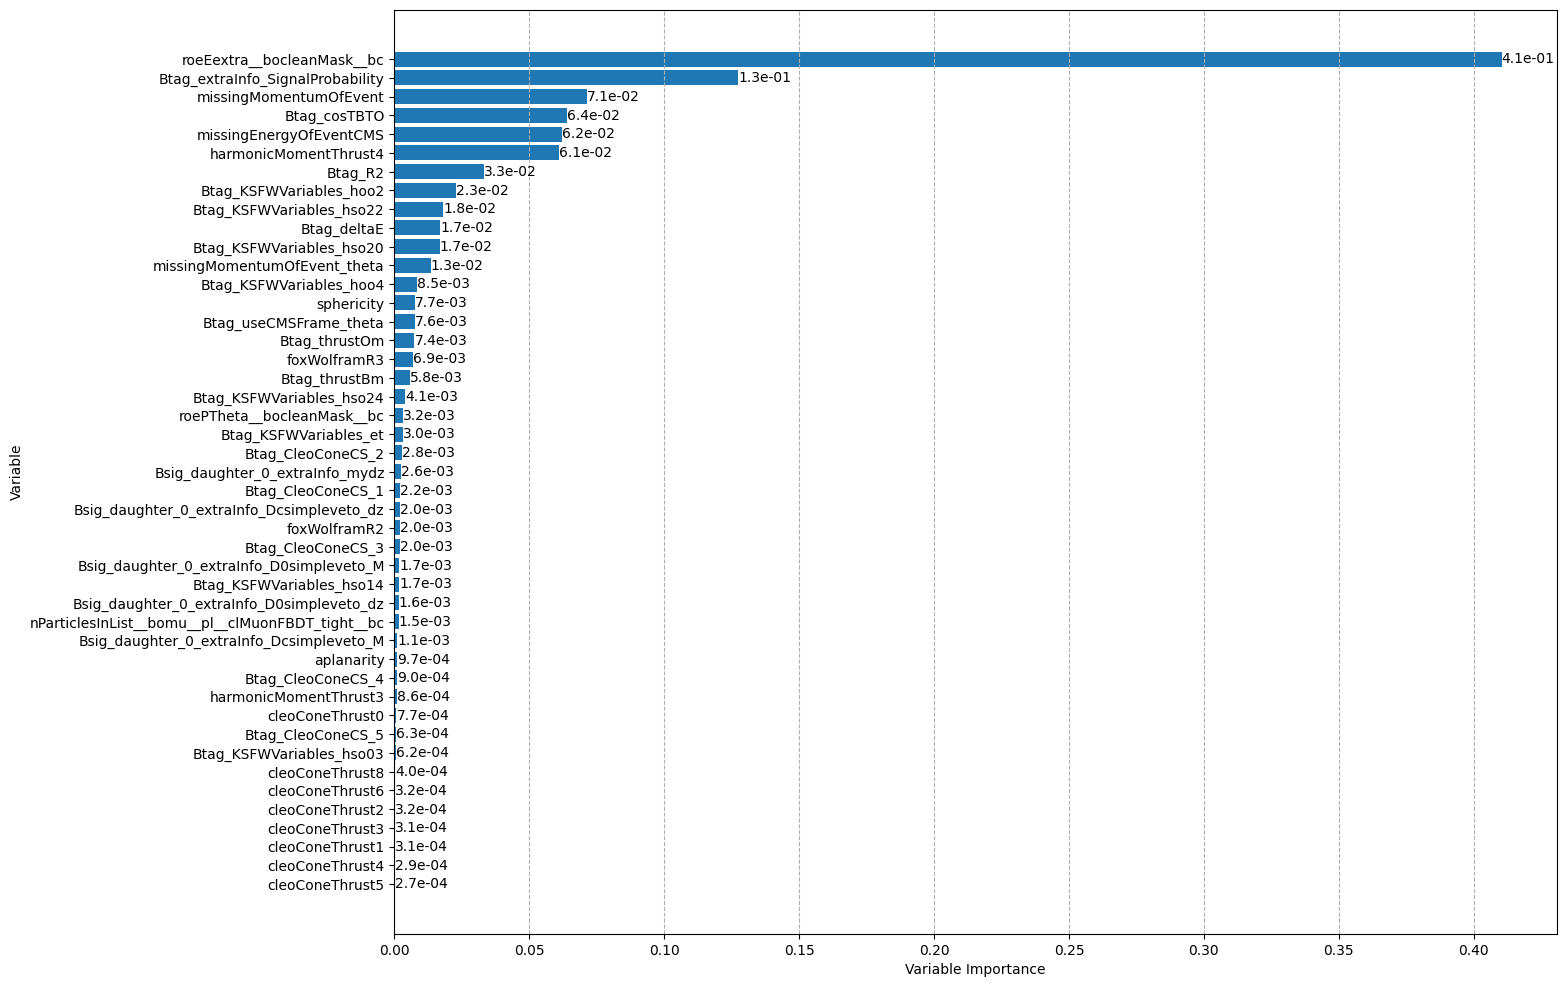
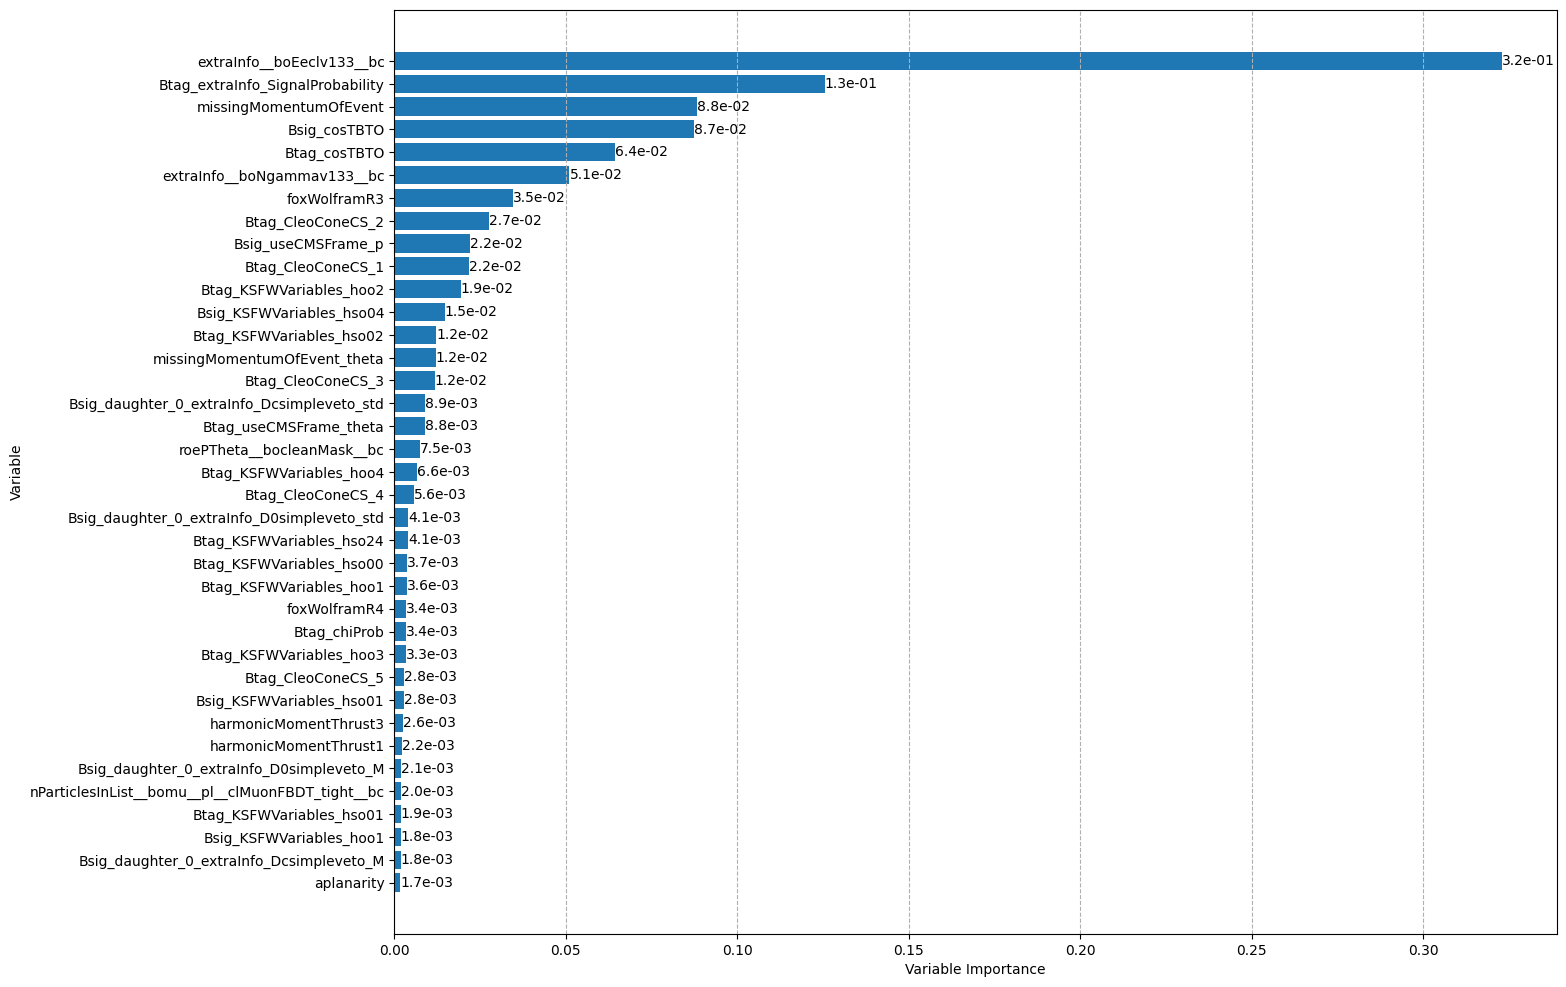
Jpsi THStack fix

diff --git a/THstack_plot/Jpsi/THStack_dm_Jpsi.c b/THstack_plot/Jpsi/THStack_dm_Jpsi.c
@@ -101,7 +101,7 @@ void LetsFill(const char* dirname, TH1F* hist, double weight = 1) {
         TFile* input_file = new TFile((dirname + std::string("/") + names.at(i)).c_str(), "read");
         printf("%s (%d/%zu)\n", ("Read " + names.at(i) + "... ").c_str(), i, names.size());
 
-        TTree* tree_upsilon = (TTree*)input_file->Get("Jpsi");
+        TTree* tree_upsilon = (TTree*)input_file->Get("Upsilon_Jpsi");
 
         tree_upsilon->SetBranchAddress("daughter__bo1__cm__spdaughter__bo1__cm__spdM__bc__bc", &var);
 
@@ -127,11 +127,9 @@ void LetsFill(const char* dirname, TH1F* hist, const char* included_string, doub
         TFile* input_file = new TFile((dirname + std::string("/") + names.at(i)).c_str(), "read");
         printf("%s (%d/%zu)\n", ("Read " + names.at(i) + "... ").c_str(), i, names.size());
 
-        TTree* tree_upsilon = (TTree*)input_file->Get("Upsilon");
-        TTree* tree_Bsig = (TTree*)input_file->Get("Bsig");
-        TTree* tree_Btag = (TTree*)input_file->Get("Btag");
+        TTree* tree_upsilon = (TTree*)input_file->Get("Upsilon_Jpsi");
 
-        tree_upsilon->SetBranchAddress("roeEextra__bocleanMask__bc", &var);
+        tree_upsilon->SetBranchAddress("daughter__bo1__cm__spdaughter__bo1__cm__spdM__bc__bc", &var);
 
         printf("%lld entries...\n", tree_upsilon->GetEntries());
         for (unsigned int j = 0; j < tree_upsilon->GetEntries(); j++) { // Fill
@@ -148,21 +146,21 @@ void LetsFill(const char* dirname, TH1F* hist, const char* included_string, doub
 
 void THStack_dm_Jpsi() {
 
-    const char* SIGNAL_dirname = "/home/jwpark/storage/BKG_gbasf2/Nitori_Jpsi/Jpsi/SIGNAL_after_FEISKIM_Nitori";
-    const char* CHG_dirname = "/home/jwpark/storage/BKG_gbasf2/Nitori_Jpsi/Jpsi/CHG_after_FEISKIM_Nitori";
-    const char* MIX_dirname = "/home/jwpark/storage/BKG_gbasf2/Nitori_Jpsi/Jpsi/MIX_after_FEISKIM_Nitori";
-    const char* UUBAR_dirname = "/home/jwpark/storage/BKG_gbasf2/Nitori_Jpsi/Jpsi/UUBAR_after_FEISKIM_Nitori";
-    const char* DDBAR_dirname = "/home/jwpark/storage/BKG_gbasf2/Nitori_Jpsi/Jpsi/DDBAR_after_FEISKIM_Nitori";
-    const char* SSBAR_dirname = "/home/jwpark/storage/BKG_gbasf2/Nitori_Jpsi/Jpsi/SSBAR_after_FEISKIM_Nitori";
-    const char* CHARM_dirname = "/home/jwpark/storage/BKG_gbasf2/Nitori_Jpsi/Jpsi/CHARM_after_FEISKIM_Nitori";
+    const char* SIGNAL_dirname = "/home/jwpark/storage/BKG_gbasf2/Nazrin_LS_MC_Jpsi/Jpsi/SIGNAL";
+    const char* CHG_dirname = "/home/jwpark/storage/BKG_gbasf2/Nazrin_LS_MC_Jpsi/Jpsi/CHG";
+    const char* MIX_dirname = "/home/jwpark/storage/BKG_gbasf2/Nazrin_LS_MC_Jpsi/Jpsi/MIX";
+    const char* UUBAR_dirname = "/home/jwpark/storage/BKG_gbasf2/Nazrin_LS_MC_Jpsi/Jpsi/UUBAR";
+    const char* DDBAR_dirname = "/home/jwpark/storage/BKG_gbasf2/Nazrin_LS_MC_Jpsi/Jpsi/DDBAR";
+    const char* SSBAR_dirname = "/home/jwpark/storage/BKG_gbasf2/Nazrin_LS_MC_Jpsi/Jpsi/SSBAR";
+    const char* CHARM_dirname = "/home/jwpark/storage/BKG_gbasf2/Nazrin_LS_MC_Jpsi/Jpsi/CHARM";
 
-    LetsFill(SIGNAL_dirname, SIGNAL_hist, (0.3/20.0));
-    LetsFill(CHG_dirname, CHG_hist);
-    LetsFill(MIX_dirname, MIX_hist);
-    LetsFill(UUBAR_dirname, UUBAR_hist);
-    LetsFill(DDBAR_dirname, DDBAR_hist);
-    LetsFill(SSBAR_dirname, SSBAR_hist);
-    LetsFill(CHARM_dirname, CHARM_hist);
+    LetsFill(SIGNAL_dirname, SIGNAL_hist, (0.3616 / 1.8));
+    LetsFill(CHG_dirname, CHG_hist, (0.3616 / 0.8));
+    LetsFill(MIX_dirname, MIX_hist, (0.3616 / 0.8));
+    LetsFill(UUBAR_dirname, UUBAR_hist, (0.3616 / 1.0));
+    LetsFill(DDBAR_dirname, DDBAR_hist, (0.3616 / 1.0));
+    LetsFill(SSBAR_dirname, SSBAR_hist, (0.3616 / 1.0));
+    LetsFill(CHARM_dirname, CHARM_hist, (0.3616 / 1.0));
 
 
     double CHG_int = CHG_hist->Integral();

diff --git a/THstack_plot/Jpsi/THStack_delE_Jpsi.c b/THstack_plot/Jpsi/THStack_delE_Jpsi.c
@@ -101,7 +101,7 @@ void LetsFill(const char* dirname, TH1F* hist, double weight = 1) {
         TFile* input_file = new TFile((dirname + std::string("/") + names.at(i)).c_str(), "read");
         printf("%s (%d/%zu)\n", ("Read " + names.at(i) + "... ").c_str(), i, names.size());
 
-        TTree* tree_upsilon = (TTree*)input_file->Get("Jpsi");
+        TTree* tree_upsilon = (TTree*)input_file->Get("Upsilon_Jpsi");
 
         tree_upsilon->SetBranchAddress("daughter__bo1__cm__spdeltaE__bc", &var);
 
@@ -127,11 +127,9 @@ void LetsFill(const char* dirname, TH1F* hist, const char* included_string, doub
         TFile* input_file = new TFile((dirname + std::string("/") + names.at(i)).c_str(), "read");
         printf("%s (%d/%zu)\n", ("Read " + names.at(i) + "... ").c_str(), i, names.size());
 
-        TTree* tree_upsilon = (TTree*)input_file->Get("Upsilon");
-        TTree* tree_Bsig = (TTree*)input_file->Get("Bsig");
-        TTree* tree_Btag = (TTree*)input_file->Get("Btag");
+        TTree* tree_upsilon = (TTree*)input_file->Get("Upsilon_Jpsi");
 
-        tree_upsilon->SetBranchAddress("roeEextra__bocleanMask__bc", &var);
+        tree_upsilon->SetBranchAddress("daughter__bo1__cm__spdeltaE__bc", &var);
 
         printf("%lld entries...\n", tree_upsilon->GetEntries());
         for (unsigned int j = 0; j < tree_upsilon->GetEntries(); j++) { // Fill
@@ -148,21 +146,21 @@ void LetsFill(const char* dirname, TH1F* hist, const char* included_string, doub
 
 void THStack_delE_Jpsi() {
 
-    const char* SIGNAL_dirname = "/home/jwpark/storage/BKG_gbasf2/Nitori_Jpsi/Jpsi/SIGNAL_after_FEISKIM_Nitori";
-    const char* CHG_dirname = "/home/jwpark/storage/BKG_gbasf2/Nitori_Jpsi/Jpsi/CHG_after_FEISKIM_Nitori";
-    const char* MIX_dirname = "/home/jwpark/storage/BKG_gbasf2/Nitori_Jpsi/Jpsi/MIX_after_FEISKIM_Nitori";
-    const char* UUBAR_dirname = "/home/jwpark/storage/BKG_gbasf2/Nitori_Jpsi/Jpsi/UUBAR_after_FEISKIM_Nitori";
-    const char* DDBAR_dirname = "/home/jwpark/storage/BKG_gbasf2/Nitori_Jpsi/Jpsi/DDBAR_after_FEISKIM_Nitori";
-    const char* SSBAR_dirname = "/home/jwpark/storage/BKG_gbasf2/Nitori_Jpsi/Jpsi/SSBAR_after_FEISKIM_Nitori";
-    const char* CHARM_dirname = "/home/jwpark/storage/BKG_gbasf2/Nitori_Jpsi/Jpsi/CHARM_after_FEISKIM_Nitori";
+    const char* SIGNAL_dirname = "/home/jwpark/storage/BKG_gbasf2/Nazrin_LS_MC_Jpsi/Jpsi/SIGNAL";
+    const char* CHG_dirname = "/home/jwpark/storage/BKG_gbasf2/Nazrin_LS_MC_Jpsi/Jpsi/CHG";
+    const char* MIX_dirname = "/home/jwpark/storage/BKG_gbasf2/Nazrin_LS_MC_Jpsi/Jpsi/MIX";
+    const char* UUBAR_dirname = "/home/jwpark/storage/BKG_gbasf2/Nazrin_LS_MC_Jpsi/Jpsi/UUBAR";
+    const char* DDBAR_dirname = "/home/jwpark/storage/BKG_gbasf2/Nazrin_LS_MC_Jpsi/Jpsi/DDBAR";
+    const char* SSBAR_dirname = "/home/jwpark/storage/BKG_gbasf2/Nazrin_LS_MC_Jpsi/Jpsi/SSBAR";
+    const char* CHARM_dirname = "/home/jwpark/storage/BKG_gbasf2/Nazrin_LS_MC_Jpsi/Jpsi/CHARM";
 
-    LetsFill(SIGNAL_dirname, SIGNAL_hist, (0.3/20.0));
-    LetsFill(CHG_dirname, CHG_hist);
-    LetsFill(MIX_dirname, MIX_hist);
-    LetsFill(UUBAR_dirname, UUBAR_hist);
-    LetsFill(DDBAR_dirname, DDBAR_hist);
-    LetsFill(SSBAR_dirname, SSBAR_hist);
-    LetsFill(CHARM_dirname, CHARM_hist);
+    LetsFill(SIGNAL_dirname, SIGNAL_hist, (0.3616/1.8));
+    LetsFill(CHG_dirname, CHG_hist, (0.3616 / 0.8));
+    LetsFill(MIX_dirname, MIX_hist, (0.3616 / 0.8));
+    LetsFill(UUBAR_dirname, UUBAR_hist, (0.3616 / 1.0));
+    LetsFill(DDBAR_dirname, DDBAR_hist, (0.3616 / 1.0));
+    LetsFill(SSBAR_dirname, SSBAR_hist, (0.3616 / 1.0));
+    LetsFill(CHARM_dirname, CHARM_hist, (0.3616 / 1.0));
 
 
     double CHG_int = CHG_hist->Integral();

diff --git a/THstack_plot/Jpsi/THStack_Mbc_Jpsi.c b/THstack_plot/Jpsi/THStack_Mbc_Jpsi.c
@@ -101,7 +101,7 @@ void LetsFill(const char* dirname, TH1F* hist, double weight = 1) {
         TFile* input_file = new TFile((dirname + std::string("/") + names.at(i)).c_str(), "read");
         printf("%s (%d/%zu)\n", ("Read " + names.at(i) + "... ").c_str(), i, names.size());
 
-        TTree* tree_upsilon = (TTree*)input_file->Get("Jpsi");
+        TTree* tree_upsilon = (TTree*)input_file->Get("Upsilon_Jpsi");
 
         tree_upsilon->SetBranchAddress("daughter__bo1__cm__spMbc__bc", &var);
 
@@ -127,11 +127,9 @@ void LetsFill(const char* dirname, TH1F* hist, const char* included_string, doub
         TFile* input_file = new TFile((dirname + std::string("/") + names.at(i)).c_str(), "read");
         printf("%s (%d/%zu)\n", ("Read " + names.at(i) + "... ").c_str(), i, names.size());
 
-        TTree* tree_upsilon = (TTree*)input_file->Get("Upsilon");
-        TTree* tree_Bsig = (TTree*)input_file->Get("Bsig");
-        TTree* tree_Btag = (TTree*)input_file->Get("Btag");
+        TTree* tree_upsilon = (TTree*)input_file->Get("Upsilon_Jpsi");
 
-        tree_upsilon->SetBranchAddress("roeEextra__bocleanMask__bc", &var);
+        tree_upsilon->SetBranchAddress("daughter__bo1__cm__spMbc__bc", &var);
 
         printf("%lld entries...\n", tree_upsilon->GetEntries());
         for (unsigned int j = 0; j < tree_upsilon->GetEntries(); j++) { // Fill
@@ -148,21 +146,21 @@ void LetsFill(const char* dirname, TH1F* hist, const char* included_string, doub
 
 void THStack_Mbc_Jpsi() {
 
-    const char* SIGNAL_dirname = "/home/jwpark/storage/BKG_gbasf2/Nitori_Jpsi/Jpsi/SIGNAL_after_FEISKIM_Nitori";
-    const char* CHG_dirname = "/home/jwpark/storage/BKG_gbasf2/Nitori_Jpsi/Jpsi/CHG_after_FEISKIM_Nitori";
-    const char* MIX_dirname = "/home/jwpark/storage/BKG_gbasf2/Nitori_Jpsi/Jpsi/MIX_after_FEISKIM_Nitori";
-    const char* UUBAR_dirname = "/home/jwpark/storage/BKG_gbasf2/Nitori_Jpsi/Jpsi/UUBAR_after_FEISKIM_Nitori";
-    const char* DDBAR_dirname = "/home/jwpark/storage/BKG_gbasf2/Nitori_Jpsi/Jpsi/DDBAR_after_FEISKIM_Nitori";
-    const char* SSBAR_dirname = "/home/jwpark/storage/BKG_gbasf2/Nitori_Jpsi/Jpsi/SSBAR_after_FEISKIM_Nitori";
-    const char* CHARM_dirname = "/home/jwpark/storage/BKG_gbasf2/Nitori_Jpsi/Jpsi/CHARM_after_FEISKIM_Nitori";
+    const char* SIGNAL_dirname = "/home/jwpark/storage/BKG_gbasf2/Nazrin_LS_MC_Jpsi/Jpsi/SIGNAL";
+    const char* CHG_dirname = "/home/jwpark/storage/BKG_gbasf2/Nazrin_LS_MC_Jpsi/Jpsi/CHG";
+    const char* MIX_dirname = "/home/jwpark/storage/BKG_gbasf2/Nazrin_LS_MC_Jpsi/Jpsi/MIX";
+    const char* UUBAR_dirname = "/home/jwpark/storage/BKG_gbasf2/Nazrin_LS_MC_Jpsi/Jpsi/UUBAR";
+    const char* DDBAR_dirname = "/home/jwpark/storage/BKG_gbasf2/Nazrin_LS_MC_Jpsi/Jpsi/DDBAR";
+    const char* SSBAR_dirname = "/home/jwpark/storage/BKG_gbasf2/Nazrin_LS_MC_Jpsi/Jpsi/SSBAR";
+    const char* CHARM_dirname = "/home/jwpark/storage/BKG_gbasf2/Nazrin_LS_MC_Jpsi/Jpsi/CHARM";
 
-    LetsFill(SIGNAL_dirname, SIGNAL_hist, (0.3/20.0));
-    LetsFill(CHG_dirname, CHG_hist);
-    LetsFill(MIX_dirname, MIX_hist);
-    LetsFill(UUBAR_dirname, UUBAR_hist);
-    LetsFill(DDBAR_dirname, DDBAR_hist);
-    LetsFill(SSBAR_dirname, SSBAR_hist);
-    LetsFill(CHARM_dirname, CHARM_hist);
+    LetsFill(SIGNAL_dirname, SIGNAL_hist, (0.3616 / 1.8));
+    LetsFill(CHG_dirname, CHG_hist, (0.3616 / 0.8));
+    LetsFill(MIX_dirname, MIX_hist, (0.3616 / 0.8));
+    LetsFill(UUBAR_dirname, UUBAR_hist, (0.3616 / 1.0));
+    LetsFill(DDBAR_dirname, DDBAR_hist, (0.3616 / 1.0));
+    LetsFill(SSBAR_dirname, SSBAR_hist, (0.3616 / 1.0));
+    LetsFill(CHARM_dirname, CHARM_hist, (0.3616 / 1.0));
 
 
     double CHG_int = CHG_hist->Integral();

diff --git a/FastBDT/Var_importance.py b/FastBDT/Var_importance.py
@@ -9,51 +9,43 @@ import matplotlib.pyplot as plt
 
 import operator
 
-unsorted_list = [('aplanarity',0.000971157),
-('Bsig_daughter_0_extraInfo_mydz',0.00257489),
-('Btag_CleoConeCS_1',0.00219841),
-('Btag_CleoConeCS_2',0.00279873),
-('Btag_CleoConeCS_3',0.00196512),
-('Btag_CleoConeCS_4',0.000903873),
-('Btag_CleoConeCS_5',0.00062769),
-('Btag_cosTBTO',0.0639741),
-('Btag_deltaE',0.0169642),
-('Btag_KSFWVariables_et',0.00303896),
-('Btag_KSFWVariables_hoo2',0.02285),
-('Btag_KSFWVariables_hoo4',0.00852612),
-('Btag_KSFWVariables_hso03',0.000621794),
-('Btag_KSFWVariables_hso14',0.00172002),
-('Btag_KSFWVariables_hso20',0.0167142),
-('Btag_KSFWVariables_hso22',0.0181347),
-('Btag_KSFWVariables_hso24',0.00410001),
-('Btag_R2',0.0330778),
-('Btag_thrustBm',0.0058272),
-('Btag_thrustOm',0.00743986),
-('Btag_useCMSFrame_theta',0.0076057),
-('cleoConeThrust0',0.000765439),
-('cleoConeThrust1',0.00031088),
-('cleoConeThrust2',0.00031526),
-('cleoConeThrust3',0.000312257),
-('cleoConeThrust4',0.000294896),
-('cleoConeThrust5',0.000265724),
-('cleoConeThrust6',0.000315318),
-('cleoConeThrust8',0.000398141),
-('foxWolframR2',0.00197906),
-('foxWolframR3',0.00687666),
-('harmonicMomentThrust3',0.000860169),
-('harmonicMomentThrust4',0.0611736),
-('Btag_extraInfo_SignalProbability',0.127427),
-('missingEnergyOfEventCMS',0.0622492),
-('missingMomentumOfEvent',0.0713292),
-('missingMomentumOfEvent_theta',0.0134532),
-('nParticlesInList__bomu__pl__clMuonFBDT_tight__bc',0.00151885),
-('roeEextra__bocleanMask__bc',0.410296),
-('roePTheta__bocleanMask__bc',0.00317799),
-('sphericity',0.00765201),
-('Bsig_daughter_0_extraInfo_Dcsimpleveto_dz',0.00200869),
-('Bsig_daughter_0_extraInfo_Dcsimpleveto_M',0.00105562),
-('Bsig_daughter_0_extraInfo_D0simpleveto_dz',0.00159548),
-('Bsig_daughter_0_extraInfo_D0simpleveto_M',0.00173521)]
+unsorted_list = [('aplanarity',0.00165872),
+('Bsig_cosTBTO',0.0874969),
+('Bsig_KSFWVariables_hoo1',0.00183806),
+('Bsig_KSFWVariables_hso01',0.00275083),
+('Bsig_KSFWVariables_hso04',0.0146183),
+('Bsig_useCMSFrame_p',0.0220495),
+('Btag_chiProb',0.00337943),
+('Btag_CleoConeCS_1',0.0217006),
+('Btag_CleoConeCS_2',0.0274642),
+('Btag_CleoConeCS_3',0.0117423),
+('Btag_CleoConeCS_4',0.00559127),
+('Btag_CleoConeCS_5',0.00281039),
+('Btag_cosTBTO',0.0644747),
+('Btag_KSFWVariables_hoo1',0.00361151),
+('Btag_KSFWVariables_hoo2',0.0194036),
+('Btag_KSFWVariables_hoo3',0.00333259),
+('Btag_KSFWVariables_hoo4',0.00658666),
+('Btag_KSFWVariables_hso00',0.00370252),
+('Btag_KSFWVariables_hso01',0.00185574),
+('Btag_KSFWVariables_hso02',0.012249),
+('Btag_KSFWVariables_hso24',0.00405913),
+('Btag_useCMSFrame_theta',0.00883227),
+('extraInfo__boEeclv133__bc',0.322912),
+('extraInfo__boNgammav133__bc',0.051052),
+('foxWolframR3',0.0346456),
+('foxWolframR4',0.00341475),
+('harmonicMomentThrust1',0.00216114),
+('harmonicMomentThrust3',0.00257841),
+('Btag_extraInfo_SignalProbability',0.125475),
+('missingMomentumOfEvent',0.0882783),
+('missingMomentumOfEvent_theta',0.0120194),
+('nParticlesInList__bomu__pl__clMuonFBDT_tight__bc',0.00196066),
+('roePTheta__bocleanMask__bc',0.00745622),
+('Bsig_daughter_0_extraInfo_Dcsimpleveto_std',0.00886326),
+('Bsig_daughter_0_extraInfo_Dcsimpleveto_M',0.00182483),
+('Bsig_daughter_0_extraInfo_D0simpleveto_std',0.00408337),
+('Bsig_daughter_0_extraInfo_D0simpleveto_M',0.00206687)]
 
 sorted_list = sorted(unsorted_list, key=operator.itemgetter(1), reverse=True)
 
